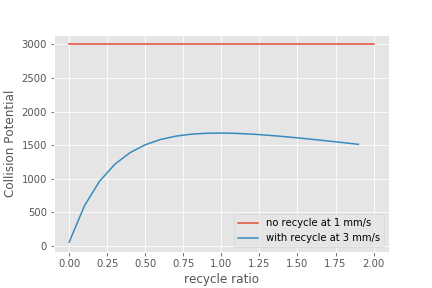
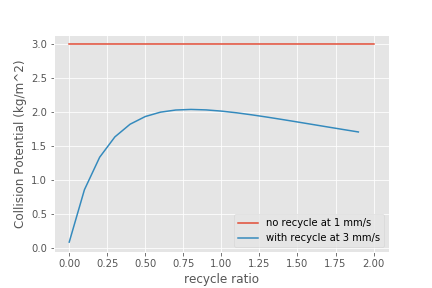
added authors and minor edits

diff --git a/Rapid_Mix/RM_Derivations.rst b/Rapid_Mix/RM_Derivations.rst
@@ -200,13 +200,13 @@ Parallel plates Laminar
 
 Flow between parallel plates occurs in plate settlers in the sedimentation tank. We will derive the velocity gradient at the wall using the Navier Stokes equation.
 
-  .. _Parallel_Plate_schematic:
-  .. figure::    Images\Parallel_Plate_schematic.png
-     :width: 700px
-     :align: center
-     :alt: Parallel plate schematic
+.. _Parallel_Plate_schematic:
+.. figure::    Images\Parallel_Plate_schematic.png
+   :width: 700px
+   :align: center
+   :alt: Parallel plate schematic
 
-     A fluid flowing from left to right due to a pressure gradient results in wall shear on the parallel plates. This flow profile is for the case when :math:`\frac{dp}{dx}` is negative.
+   A fluid flowing from left to right due to a pressure gradient results in wall shear on the parallel plates. This flow profile is for the case when :math:`\frac{dp}{dx}` is negative.
 
 
 We start with the Navier-Stokes equation written for flow in the x direction.

diff --git a/index.rst b/index.rst
@@ -17,6 +17,13 @@ This textbook is written and maintained in `Github <https://github.com/AguaClara
    "Python", "3.6.5"
 
 .. toctree::
+    :caption: Acknowledgements
+    :maxdepth: 1
+
+    Acknowledgements.rst
+    Authors.rst
+
+.. toctree::
    :caption: Contributor's guide
    :maxdepth: 1
 
@@ -47,6 +54,22 @@ This is a place holder for 'Chapter 1: Introduction' files
    Flow_Control_and_Measurement/FCM_Intro.rst
    Flow_Control_and_Measurement/FCM_Design.rst
    Flow_Control_and_Measurement/FCM_Derivations.rst
+
+.. toctree::
+   :caption: Chapter 4: Rapid Mix
+   :maxdepth: 1
+
+   Rapid_Mix/RM_Intro.rst
+   Rapid_Mix/RM_Design.rst
+   Rapid_Mix/RM_Derivations.rst
+   Rapid_Mix/RM_Examples.rst
+   Rapid_Mix/RM_Theory_and_Future_Work.rst
+
+.. toctree::
+   :caption: Chapter 6: Sedimentation
+   :maxdepth: 1
+
+   Sedimentation/Sed_Theory_and_Future_Work.rst
 
 
 `PDF and LaTeX versions <https://github.com/AguaClara/Textbook/releases/latest>`_ [#pdf_warning]_.

diff --git a/Authors.rst b/Authors.rst
@@ -1,0 +1,11 @@
+********************************************
+Authors
+********************************************
+
+This text is a collaborative effort involving hundreds of people. Innovation requires collisions of ideas and the AguaClara program was designed to foster global and multidisciplinary interactions between students, faculty, field engineers, plant operators, implementation partner organizations, and community members. These interactions have provided a continuous and rich source of ideas that make it clear that in a social network it is impossible for anyone to claim ownership of an idea. Thus the inventions, equations, and reactor designs that are described in this text are the product of a large, collaborative, open-source community and none of us can claim that we are the sole authors. The list of authors below have contributed directly to this text.
+
+
+- Juan Guzman
+- Monroe Weber-Shirk
+- Clare O'Conner
+- Ethan Keller

diff --git a/Sedimentation/Sed_Theory_and_Future_Work.rst b/Sedimentation/Sed_Theory_and_Future_Work.rst
@@ -66,7 +66,7 @@ We estimate the hindered sedimentation velocity to be 1 mm/s since that is what 
  Pi_recycle = np.arange(0,Pi_recycle_max,0.1)
  fig, ax = plt.subplots()
  x=np.array([0,Pi_recycle_max])
- yscale = (C_fb*H_fb*v_hindered/(1*u.mm/u.s)).to_base_units()
+ yscale = (C_fb_conventional*H_fb*v_hindered/(1*u.mm/u.s)).to_base_units()
  yscale
  y=np.array([1,1])*yscale
  ax.plot(x,y)
